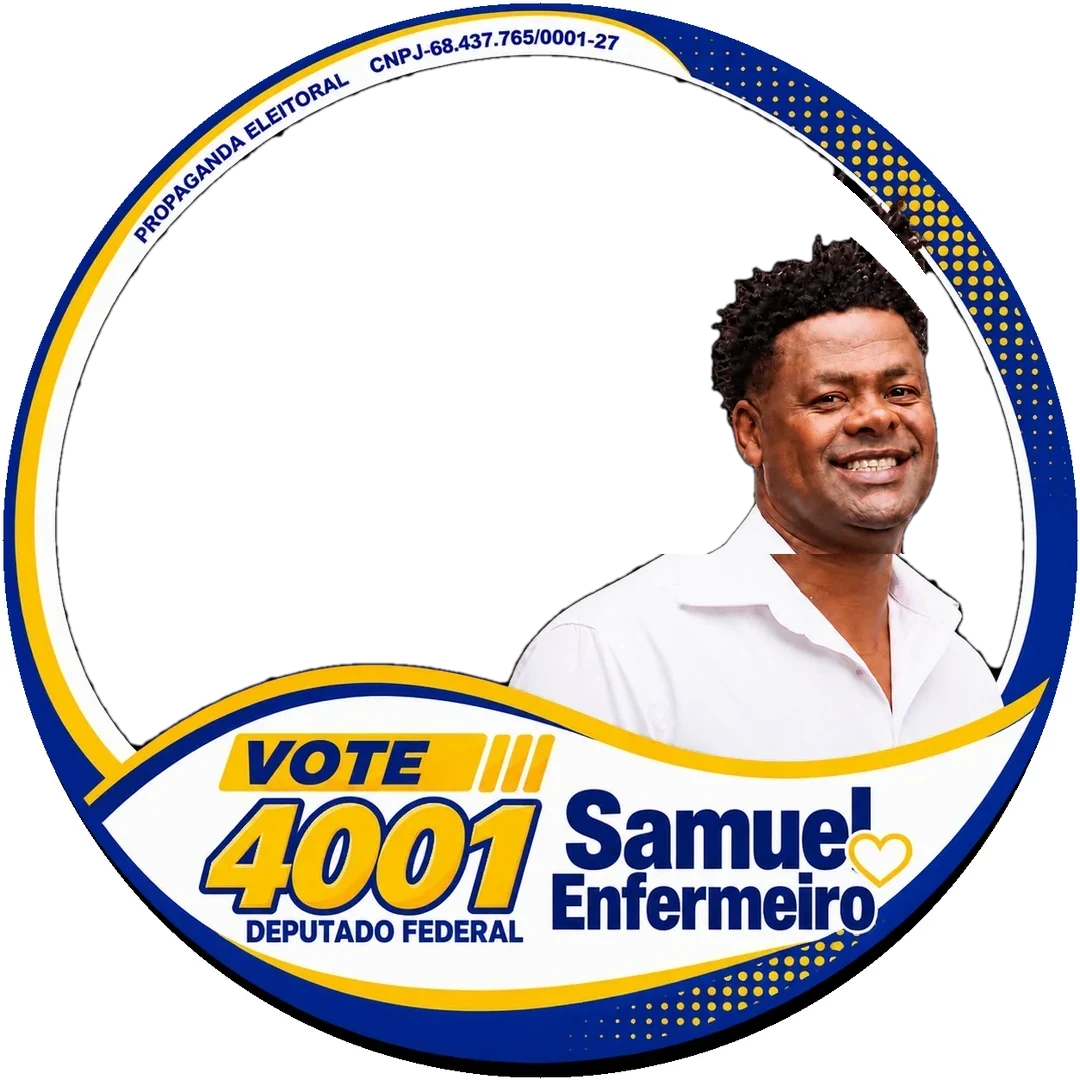
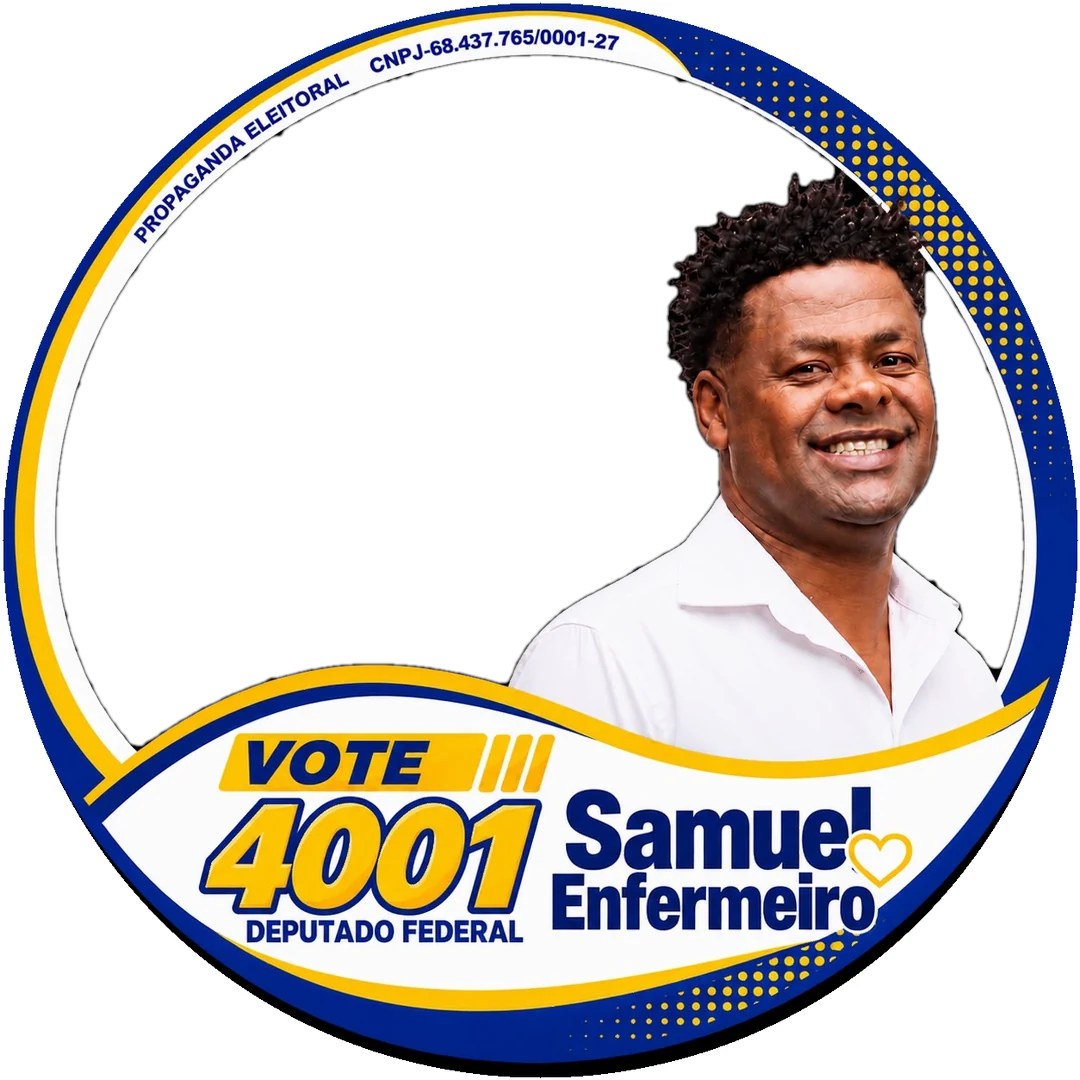
Remove o filete preto da moldura de perfil, revertendo a redução
O filete serrilhado acima da cabeça dele não vinha do recorte: nasceu na
etapa em que eu reduzia o candidato a 84%. O recorte que eu movia
carregava junto fragmentos de placeholder e da borda do anel, que ao
serem reposicionados viravam riscos soltos sobre o meio-tom.

Tentei quatro variações para reduzir sem arrastar sujeira: excluir preto
puro do recorte comeu cabelo, olhos e boca; limitar pelo raio do buraco
levou o anel junto; detectar o limite esquerdo pela massa opaca reduziu
os respingos mas não zerou.

A raiz é que estou recortando de um JPEG achatado, onde candidato, anel e
placeholder já estão na mesma camada. Separá-los sempre deixa resíduo.

Volta para o tamanho original, sem nenhum artefato, com o tratamento da
camisa aplicado. Auditor: zero placeholder e zero franja.

diff --git a/index.html b/index.html
@@ -353,7 +353,7 @@
       cx: 405, cy: 635, rx: 405, ry: 462, focoX: 405,
       arquivo: "samuel-enfermeiro-story.png", src: "assets/molduras/story-azul.webp" },
     { grupo: "formato", indice: 0, nome: "Foto de perfil", W: 1080, H: 1080,
-      cx: 540, cy: 400, rx: 482, ry: 344, focoX: 455,
+      cx: 540, cy: 400, rx: 483, ry: 344, focoX: 470,
       arquivo: "samuel-enfermeiro-perfil.png", src: "assets/molduras/perfil-1x1.webp" },
     { grupo: "formato", indice: 1, nome: "Post do Instagram", W: 864, H: 1079,
       cx: 434, cy: 400, rx: 428, ry: 340, focoX: 434,
